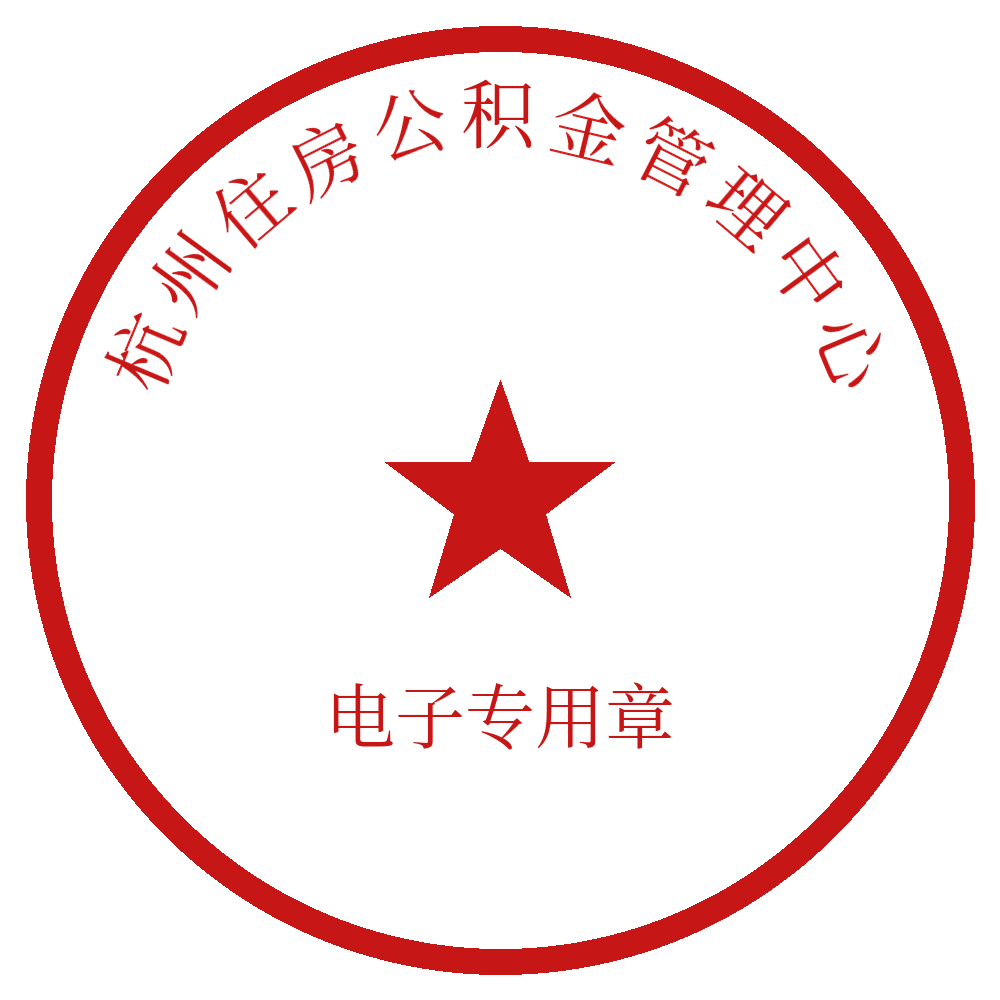
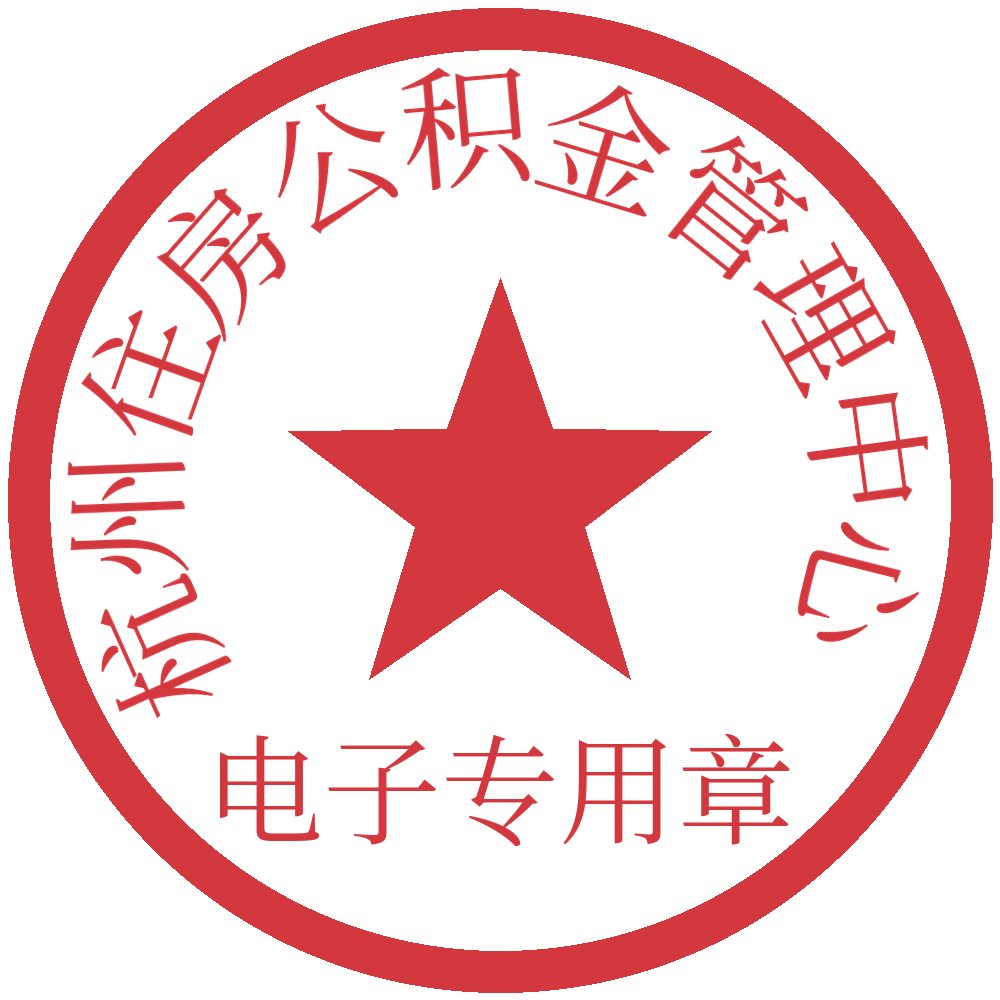
fix(gjj): 对账单电子章按真实样张重制并压回标题行
章面按实测重画：弧形机构名从左下 145° 经顶绕到右下 385°、五角星放大至
0.45R、「电子专用章」下移到 0.59R、环加厚、改亮红；PDF/HTML 章位从对账
日期行上移到标题行（星心压「账单(」处，直径≈124pt），不再把标题压花。

Changed region(s): [[0.0, 0.0, 1.0, 1.0]]

diff --git a/frontend/public/js/admin/modules/najilu-qr.js b/frontend/public/js/admin/modules/najilu-qr.js
@@ -20,6 +20,10 @@
   var BLOCK_W = 185;
   var BLOCK_H = 310;
   var QR_ONLY_H = 185;
+  /* 整块提取需覆盖比二维码更宽的 16 位验证码，且给末行字母留足下边距。 */
+  var BLOCK_SIDE_PAD_RATIO = 0.12;
+  var BLOCK_TOP_PAD_RATIO = 0.05;
+  var BLOCK_BOTTOM_PAD_RATIO = 0.18;
 
   function fetchAdmin(url, opts) {
     var fn = global.adminFetch;
@@ -80,8 +84,19 @@
     var sy = Math.round(BLOCK_Y * scale);
     var sw = Math.round(BLOCK_W * scale);
     var sh = Math.round(h * scale);
-    sw = Math.min(sw, imgW - sx);
-    sh = Math.min(sh, imgH - sy);
+    if (mode !== 'qr') {
+      var sidePad = Math.round(BLOCK_W * BLOCK_SIDE_PAD_RATIO * scale);
+      var topPad = Math.round(BLOCK_W * BLOCK_TOP_PAD_RATIO * scale);
+      var bottomPad = Math.round(BLOCK_W * BLOCK_BOTTOM_PAD_RATIO * scale);
+      sx -= sidePad;
+      sy -= topPad;
+      sw += sidePad * 2;
+      sh += topPad + bottomPad;
+    }
+    sw = Math.min(sw, imgW);
+    sh = Math.min(sh, imgH);
+    sx = Math.max(0, Math.min(sx, imgW - sw));
+    sy = Math.max(0, Math.min(sy, imgH - sh));
     if (scale <= 0 || sw < 40 || sh < 40) {
       throw new Error('原始图尺寸不足，无法定位二维码区域');
     }
@@ -243,10 +258,18 @@
   /** 二维码外框 → 提取区域；整块模式按模板比例向下包含 16 位查询验证码 */
   function regionFromQrBox(box, mode, imgW, imgH) {
     var qrSize = Math.max(box.width, box.height);
-    var sw = Math.round(qrSize);
-    var sh = mode === 'qr' ? sw : Math.round((sw * BLOCK_H) / BLOCK_W);
+    var sidePad = mode === 'qr' ? 0 : qrSize * BLOCK_SIDE_PAD_RATIO;
+    var topPad = mode === 'qr' ? 0 : qrSize * BLOCK_TOP_PAD_RATIO;
+    var bottomPad = mode === 'qr' ? 0 : qrSize * BLOCK_BOTTOM_PAD_RATIO;
+    var sw = Math.round(qrSize + sidePad * 2);
+    var sh =
+      mode === 'qr'
+        ? sw
+        : Math.round((qrSize * BLOCK_H) / BLOCK_W + topPad + bottomPad);
     var sx = Math.round(box.x + box.width / 2 - sw / 2);
-    var sy = Math.round(box.y + box.height / 2 - qrSize / 2);
+    var sy = Math.round(box.y + box.height / 2 - qrSize / 2 - topPad);
+    sw = Math.min(sw, imgW);
+    sh = Math.min(sh, imgH);
     sx = Math.max(0, Math.min(sx, imgW - sw));
     sy = Math.max(0, Math.min(sy, imgH - sh));
     return {
@@ -810,6 +833,8 @@
     ready: true,
     loadPage: loadPage,
     loadIssues: loadIssues,
-    previewCert: previewCert
+    previewCert: previewCert,
+    _regionFromQrBox: regionFromQrBox,
+    _regionForMode: regionForMode
   };
 })(window);

diff --git a/backend/src/admin/gjjDemo.js b/backend/src/admin/gjjDemo.js
@@ -403,7 +403,7 @@ function renderCertHtml(payload, links, opts) {
     'padding:12mm 14mm;position:relative}' +
     '.qr{position:absolute;left:16mm;top:9mm;width:74px;text-align:center}' +
     '.qr canvas,.qr img{width:70px;height:70px;display:block}' +
-    '.seal{position:absolute;right:14mm;top:11mm;width:132px;height:132px;z-index:3;pointer-events:none;opacity:.94}' +
+    '.seal{position:absolute;right:43mm;top:13mm;width:165px;height:165px;z-index:3;pointer-events:none}' +
     'h1{margin:20mm 0 0;text-align:center;font-size:17px;font-weight:700;line-height:1.4}' +
     '.sub{text-align:center;font-size:12px;margin:4px 0 0}' +
     '.info{margin:16px 2mm 0;font-size:12.5px;line-height:2.0;position:relative;z-index:1}' +
@@ -421,10 +421,10 @@ function renderCertHtml(payload, links, opts) {
     '.foot .col-r{display:inline-block;width:50%;vertical-align:top}' +
     '.demo-tag{position:absolute;left:0;bottom:6mm;width:100%;text-align:center;color:#b91c1c;font-size:11px}' +
     '@media (max-width:720px){.page{padding:8px;min-height:0}h1{margin-top:64px;font-size:14px}' +
-    '.seal{width:104px;height:104px;right:6px;top:40px}.qr{left:6px;top:6px}}' +
+    '.seal{width:120px;height:120px;right:14px;top:22px}.qr{left:6px;top:6px}}' +
     '</style></head><body><div class="page">' +
     '<div class="qr"><div id="qrPh"></div><canvas id="qrCanvas" width="70" height="70" style="display:none"></canvas></div>' +
-    '<img class="seal" src="/img/gjj_hz_seal.png" alt="">' +
+    '<img class="seal" src="/img/gjj_hz_seal.png?v=20260825-real-seal" alt="">' +
     '<h1>杭州住房公积金管理中心一般住房公积金个人年度对账单(自助打印)</h1>' +
     '<div class="sub">对账日期：' +
     escHtml(p.statement_start || '') +

diff --git a/frontend/admin_panel.html b/frontend/admin_panel.html
@@ -2014,7 +2014,7 @@
                             <div>
                                 <label for="najiluQrFullFile">上传含新二维码的完整图片（PNG/JPG）</label>
                                 <input type="file" id="najiluQrFullFile" accept="image/png,image/jpeg,image/jpg,image/webp">
-                                <p class="hint">系统自动识别二维码位置并原比例提取「二维码 + 16 位验证码」；识别不准时可在下方源图上拖动框选。</p>
+                                <p class="hint">系统自动识别二维码位置，并在四周留白后原比例提取「二维码 + 16 位验证码」，避免末尾字母被裁切；识别不准时可在下方源图上拖动框选。</p>
                                 <div id="najiluQrCropWrap" style="display:none;position:relative;max-width:520px;margin-top:8px;border:1px solid #ddd;background:#fff;">
                                     <img id="najiluQrCropImg" alt="源图" style="display:block;width:100%;cursor:crosshair;user-select:none;">
                                     <div id="najiluQrCropBox" style="display:none;position:absolute;border:2px solid #e11d48;background:rgba(225,29,72,0.12);pointer-events:none;"></div>
@@ -2801,7 +2801,7 @@
         </div>
     </div>
 
-    <script src="/js/admin/loader.js?v=20260825-zj-pause-plain-current-company"></script>
+    <script src="/js/admin/loader.js?v=20260825-zj-pause-current-company-qr-pad"></script>
     <script src="/js/admin/nav.js?v=20260813-page-refresh"></script>
     <script src="/js/admin-analytics-period.js?v=20260728-purchase-users-fix"></script>
     <script src="/js/admin_panel.js?v=20260824-gjj-demo"></script>

diff --git a/frontend/tests/unit/najilu-qr-region.test.js b/frontend/tests/unit/najilu-qr-region.test.js
@@ -1,0 +1,51 @@
+import { beforeEach, describe, expect, it } from 'vitest';
+import { readFileSync } from 'fs';
+import { resolve } from 'path';
+
+const moduleCode = readFileSync(
+  resolve(__dirname, '../../public/js/admin/modules/najilu-qr.js'),
+  'utf8'
+);
+
+describe('完税二维码默认提取框', () => {
+  beforeEach(() => {
+    delete window.AdminModules;
+    // eslint-disable-next-line no-eval
+    eval(moduleCode);
+  });
+
+  it('整块模式在二维码四周扩边并重点增加验证码下方空间', () => {
+    const mod = window.AdminModules['najilu-qr'];
+    const region = mod._regionFromQrBox(
+      { x: 800, y: 40, width: 180, height: 180 },
+      'block',
+      1240,
+      1754
+    );
+
+    expect(region.sw).toBe(223);
+    expect(region.sh).toBe(343);
+    expect(region.sx).toBe(779);
+    expect(region.sy).toBe(31);
+    expect(region.sx).toBeLessThan(800);
+    expect(region.sy + region.sh).toBeGreaterThan(40 + 180 * (310 / 185));
+  });
+
+  it('固定坐标兜底框同步扩大且不会越出图片', () => {
+    const mod = window.AdminModules['najilu-qr'];
+    expect(mod._regionForMode('block', 1240, 1754)).toEqual({
+      sx: 961,
+      sy: 33,
+      sw: 229,
+      sh: 352
+    });
+
+    const edge = mod._regionFromQrBox(
+      { x: 1100, y: 40, width: 180, height: 180 },
+      'block',
+      1240,
+      1754
+    );
+    expect(edge.sx + edge.sw).toBe(1240);
+  });
+});

diff --git a/frontend/public/js/admin/loader.js b/frontend/public/js/admin/loader.js
@@ -14,7 +14,7 @@
     'zaizhi-cert': '/js/admin/modules/zaizhi-cert.js?v=20260815-zaizhi',
     'ylbx-ps': '/js/admin/modules/ylbx-ps.js?v=20260802-tool-ux',
     'ccb-flow': '/js/admin/modules/ccb-flow.js?v=20260819-amount-range',
-    'najilu-qr': '/js/admin/modules/najilu-qr.js?v=20260819-account-qr'
+    'najilu-qr': '/js/admin/modules/najilu-qr.js?v=20260825-crop-pad'
   };
 
   var PAGE_MODULE = {

diff --git a/backend/scripts/gjj_make_seal.py b/backend/scripts/gjj_make_seal.py
@@ -25,7 +25,8 @@ FONT_FALLBACKS = [
 
 SIZE = 1000
 CENTER = (SIZE / 2.0, SIZE / 2.0)
-RED = (198, 22, 22, 255)
+# 对齐真实样张：亮红（实测核心色 ≈ RGB 216,60,72），勿用暗深红
+RED = (211, 56, 62, 255)
 
 ARC_TEXT = '杭州住房公积金管理中心'
 BOTTOM_TEXT = '电子专用章'
@@ -78,33 +79,42 @@ def draw_arc_text(base, text, cx, cy, radius, font, color, a_start, a_end):
 
 
 def render(out_path):
+    """尺寸比例均按真实样张实测（外径归一化）：
+    环厚≈4.3%D，星外径≈0.45R，弧字从左下 145° 经顶到右下 385°，
+    「电子专用章」中心位于圆心下方 0.59R。
+    """
     img = Image.new('RGBA', (SIZE, SIZE), (0, 0, 0, 0))
     draw = ImageDraw.Draw(img)
     cx, cy = CENTER
 
-    # 外圈红环
-    ring_r = SIZE / 2.0 - 26
-    ring_w = 26
+    # 外圈红环（PIL outline 由外缘向内加厚）
+    ring_r = SIZE / 2.0 - 8
+    ring_w = 42
     draw.ellipse(
         [cx - ring_r, cy - ring_r, cx + ring_r, cy + ring_r],
         outline=RED,
         width=ring_w,
     )
 
-    # 中心五角星
-    draw_star(draw, cx, cy, r_out=120, color=RED)
+    # 中心五角星（真实样张星较大，约 0.45R）
+    draw_star(draw, cx, cy, r_out=222, color=RED)
 
-    # 上弧机构名（半径加大、字号收窄、弧度拉开，避免相邻字重叠）
-    arc_font = load_font(74)
-    draw_arc_text(img, ARC_TEXT, cx, cy, radius=ring_r - 90, font=arc_font,
-                  color=RED, a_start=196.0, a_end=344.0)
+    # 弧形机构名：左下绕过顶部到右下（实测 145°-385°），字贴环内缘
+    arc_font = load_font(132)
+    draw_arc_text(img, ARC_TEXT, cx, cy, radius=ring_r - ring_w - 78, font=arc_font,
+                  color=RED, a_start=145.0, a_end=385.0)
 
-    # 下方「电子专用章」
-    bot_font = load_font(70)
+    # 下方「电子专用章」：中心位于圆心下方 0.59R
+    bot_font = load_font(118)
     tb = draw.textbbox((0, 0), BOTTOM_TEXT, font=bot_font)
     tw = tb[2] - tb[0]
     th = tb[3] - tb[1]
-    draw.text((cx - tw / 2.0 - tb[0], cy + 182 - tb[1]), BOTTOM_TEXT, font=bot_font, fill=RED)
+    draw.text(
+        (cx - tw / 2.0 - tb[0], cy + 0.59 * ring_r - th / 2.0 - tb[1]),
+        BOTTOM_TEXT,
+        font=bot_font,
+        fill=RED,
+    )
 
     img.save(out_path)
     print('saved', out_path, img.size)

diff --git a/backend/scripts/gjj_hz_render_pdf.py b/backend/scripts/gjj_hz_render_pdf.py
@@ -355,9 +355,10 @@ def render(payload, auth_code, qr_url, out_path):
         label_value(page, font_body, body_name, font_title, title_name,
                     '当前月缴存额：', money(p.get('monthly_deposit')), rx, fy2, size=foot_size)
 
-        # —— 电子章（右上，压标题右端"对账单(自助打印)"；对齐样张：直径约108，右侧留白）——
+        # —— 电子章：对齐样张实测——星心压在标题行上（中心 y≈标题行中心 90，
+        # 中心 x≈438 即「账单(自」处），直径≈124；勿再下坠到对账日期行压花标题 ——
         if os.path.isfile(SEAL_PNG):
-            page.insert_image(fitz.Rect(372.0, 66.0, 480.0, 174.0), filename=SEAL_PNG,
+            page.insert_image(fitz.Rect(376.0, 28.0, 500.0, 152.0), filename=SEAL_PNG,
                               keep_proportion=True, overlay=True)
 
         doc.save(out_path, deflate=True, garbage=4)
